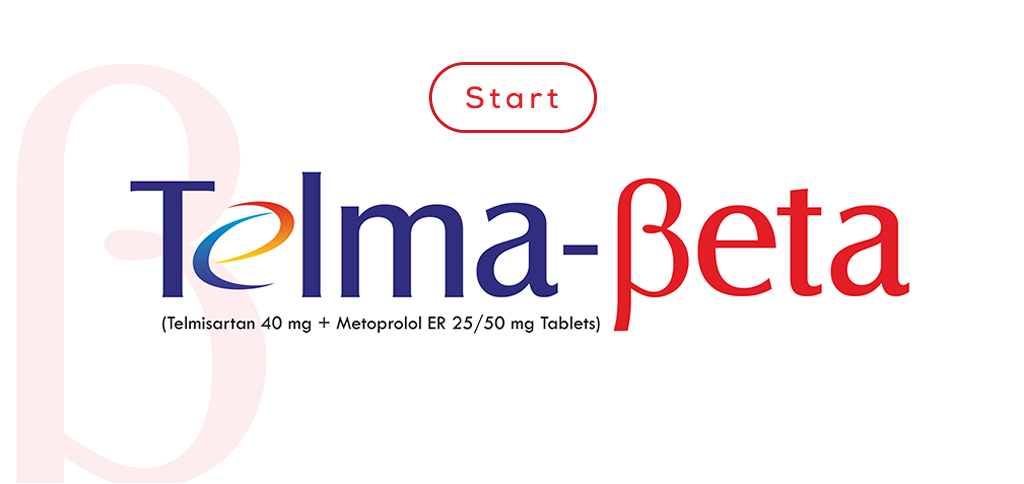
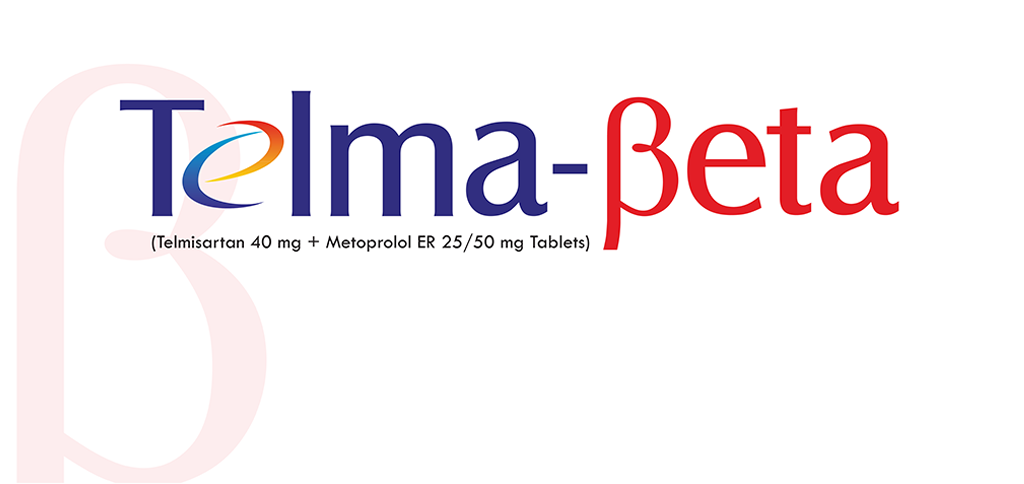
Speed 1

Changed region(s): [[0.125, 0.124, 0.9062, 0.6818]]

diff --git a/index.html b/index.html
@@ -64,7 +64,7 @@ if (typeof(localStorage.getItem("currentcustomslideflag"))!='undefined' && local
 	
 	switch(custcomslideid){
 		case 1:
-		content='<link rel="stylesheet" type="text/css" href="slide1/slide1.css" media="screen"/><div class="s1_1"><img src="slide1/s1_1.png" width="1024" height="768" alt=""/></div><div class="s1_2"><img src="slide1/s1_2.png"/></div><div class="s1_3_wrap pulseIn-1"><div class="s1_3"><img src="slide1/s1_3.png"/></div></div><div class="s1_4_wrap pulseIn-2"><div class="s1_4"><img src="slide1/s1_4.png"/></div></div><div class="s1_5_wrap pulseIn-3"><div class="s1_5"><img src="slide1/s1_5.png"/></div></div><div class="s1_6 slideInUp"><img src="slide1/s1_6.png"/></div><div class="s1_7 slideInDown"><img src="slide1/s1_7.png"/></div><div class="s1_8"><img src="slide1/s1_8.png"/></div><div class="s1_9"><img src="slide1/s1_9.png"/></div><div class="s1_10"><img src="slide1/s1_10.png"/></div><div class="s1_11"><img src="slide1/s1_11.png"/></div><div class="hitStart" onclick="hitStart()"></div><div class="popBubble1" onclick="popBubble1()"></div><div class="popBubble2" onclick="popBubble2()"></div><div class="popBubble3" onclick="popBubble3()"></div>';
+		content='<link rel="stylesheet" type="text/css" href="slide1/slide1.css" media="screen"/><div class="s1_1"><img src="slide1/s1_1.png" width="1024" height="768" alt=""/></div><div class="s1_2"><img src="slide1/s1_2.png"/></div><div class="s1_3_wrap pulseIn-1"><div class="s1_3"><img src="slide1/s1_3.png"/></div></div><div class="s1_4_wrap pulseIn-2"><div class="s1_4"><img src="slide1/s1_4.png"/></div></div><div class="s1_5_wrap pulseIn-3"><div class="s1_5"><img src="slide1/s1_5.png"/></div></div><div class="s1_6 slideInUp"><img src="slide1/s1_6.png"/></div><div class="s1_7 slideInDown"><img src="slide1/s1_7.png"/></div><div class="s1_8"><img src="slide1/s1_8.png"/></div><div class="s1_9"><img src="slide1/s1_9.png"/></div><div class="s1_10"><img src="slide1/s1_10.png"/></div><div class="s1_11"><img src="slide1/s1_11.png"/></div><div class="start"><img src="slide1/start.png"/></div><div class="hitStart" onclick="hitStart()"></div><div class="popBubble1" onclick="popBubble1()"></div><div class="popBubble2" onclick="popBubble2()"></div><div class="popBubble3" onclick="popBubble3()"></div>';
 		break;
 	}
 
@@ -75,7 +75,7 @@ if (typeof(localStorage.getItem("currentcustomslideflag"))!='undefined' && local
 	 
 }else{
 
-$("#main_content").html('<link rel="stylesheet" type="text/css" href="slide1/slide1.css" media="screen"/><div class="s1_1"><img src="slide1/s1_1.png" width="1024" height="768" alt=""/></div><div class="s1_2"><img src="slide1/s1_2.png"/></div><div class="s1_3_wrap pulseIn-1"><div class="s1_3"><img src="slide1/s1_3.png"/></div></div><div class="s1_4_wrap pulseIn-2"><div class="s1_4"><img src="slide1/s1_4.png"/></div></div><div class="s1_5_wrap pulseIn-3"><div class="s1_5"><img src="slide1/s1_5.png"/></div></div><div class="s1_6 slideInUp"><img src="slide1/s1_6.png"/></div><div class="s1_7 slideInDown"><img src="slide1/s1_7.png"/></div><div class="s1_8"><img src="slide1/s1_8.png"/></div><div class="s1_9"><img src="slide1/s1_9.png"/></div><div class="s1_10"><img src="slide1/s1_10.png"/></div><div class="s1_11"><img src="slide1/s1_11.png"/></div><div class="hitStart" onclick="hitStart()"></div><div class="popBubble1" onclick="popBubble1()"></div><div class="popBubble2" onclick="popBubble2()"></div><div class="popBubble3" onclick="popBubble3()"></div>');
+$("#main_content").html('<link rel="stylesheet" type="text/css" href="slide1/slide1.css" media="screen"/><div class="s1_1"><img src="slide1/s1_1.png" width="1024" height="768" alt=""/></div><div class="s1_2"><img src="slide1/s1_2.png"/></div><div class="s1_3_wrap pulseIn-1"><div class="s1_3"><img src="slide1/s1_3.png"/></div></div><div class="s1_4_wrap pulseIn-2"><div class="s1_4"><img src="slide1/s1_4.png"/></div></div><div class="s1_5_wrap pulseIn-3"><div class="s1_5"><img src="slide1/s1_5.png"/></div></div><div class="s1_6 slideInUp"><img src="slide1/s1_6.png"/></div><div class="s1_7 slideInDown"><img src="slide1/s1_7.png"/></div><div class="s1_8"><img src="slide1/s1_8.png"/></div><div class="s1_9"><img src="slide1/s1_9.png"/></div><div class="s1_10"><img src="slide1/s1_10.png"/></div><div class="s1_11"><img src="slide1/s1_11.png"/></div><div class="start"><img src="slide1/start.png"/></div><div class="hitStart" onclick="hitStart()"></div><div class="popBubble1" onclick="popBubble1()"></div><div class="popBubble2" onclick="popBubble2()"></div><div class="popBubble3" onclick="popBubble3()"></div>');
 
 }
 

diff --git a/slide1/slide1.css b/slide1/slide1.css
@@ -16,8 +16,8 @@
   top: 58px;
   width: 379px;
   height: 130px;
-	animation: fadeInDown 0.5s;
-	animation-delay: 0s;
+	animation: fadeInDown 1s;
+	animation-delay: 0.5s;
 	animation-fill-mode: both;
 	z-index: 2;
 }
@@ -44,7 +44,7 @@
   width: 230px;
   height: 230px;
 	animation: bounceIn 0.5s;
-	animation-delay: 1s;
+	animation-delay: 2s;
 	animation-fill-mode: both;
 	z-index: 5;
 }
@@ -71,7 +71,7 @@
   width: 196px;
   height: 196px;
 	animation: bounceIn 0.5s;
-	animation-delay: 1.5s;
+	animation-delay: 2.5s;
 	animation-fill-mode: both;
 	z-index: 5;
 }
@@ -98,7 +98,7 @@
   width: 157px;
   height: 158px;
 	animation: bounceIn 0.5s;
-	animation-delay: 2s;
+	animation-delay: 3s;
 	animation-fill-mode: both;
 	z-index: 5;
 }
@@ -114,7 +114,7 @@
 
 .slideInDown {
 	animation: slideInDown 0.3s;
-	animation-delay: 3s;
+	animation-delay: 5s;
 	animation-fill-mode: both;
 }
 
@@ -135,7 +135,7 @@
 
 .slideInUp {
 	animation: slideInUp 0.3s;
-	animation-delay: 3s;
+	animation-delay: 5s;
 	animation-fill-mode: both;
 }
 
@@ -145,66 +145,26 @@
 	animation-fill-mode: both;
 }
 
-.s1_8 {
-	position: absolute;
-  left: 0px;
-  top: 0px;
-  width: 1024px;
-  height: 768px;
-	animation: fadeIn 1s;
-	animation-delay: 1s;
+.start {
+  position: absolute;
+  left: 417px;
+  top: 631px;
+  width: 191px;
+  height: 79px;
+  	animation: bounceIn 1.5s infinite;
+	animation-delay: 5.2s;
 	animation-fill-mode: both;
-	display: none;
-	z-index: 30;
-}
-
-.s1_9 {
-	position: absolute;
-  left: 534px;
-  top: 112px;
-  width: 460px;
-  height: 114px;
-	animation: fadeInUp 0.5s;
-	animation-delay: 2s;
-	animation-fill-mode: both;
-	display: none;
-	z-index: 35;
-}
-
-.s1_10 {
-	position: absolute;
-  left: 22px;
-  top: 480px;
-  width: 413px;
-  height: 288px;
-	animation: zoomInUp 1s;
-	animation-delay: 2.5s;
-	animation-fill-mode: both;
-	display: none;
-	z-index: 35;
-}
-
-.s1_11 {
-	position: absolute;
-  left: 0px;
-  top: 584px;
-  width: 1024px;
-  height: 184px;
-	animation: fadeIn 1s;
-	animation-delay: 1s;
-	animation-fill-mode: both;
-	display: none;
-	z-index: 40;
+  z-index: 18;
 }
 
 .hitStart {
   position: absolute;
-  left: 370px;
-  top: 299px;
-  width: 284px;
-  height: 168px;
+  left: 358px;
+  top: 575px;
+  width: 308px;
+  height: 193px;
   	animation: zoomInZero 0.3s;
-	animation-delay: 3.2s;
+	animation-delay: 5.2s;
 	animation-fill-mode: both;
   z-index: 20;
 }
@@ -239,12 +199,64 @@
 	z-index: 25;
 }
 
-
 .bounceOut {
 	animation: bounceOut 0.3s;
 	animation-delay: 0s;
 	animation-fill-mode: both;
 }
+
+.s1_8 {
+	position: absolute;
+  left: 0px;
+  top: 0px;
+  width: 1024px;
+  height: 768px;
+	animation: fadeIn 1s;
+	animation-delay: 1s;
+	animation-fill-mode: both;
+	display: none;
+	z-index: 30;
+}
+
+.s1_9 {
+	position: absolute;
+  left: 534px;
+  top: 112px;
+  width: 460px;
+  height: 114px;
+	animation: fadeInUp 1s;
+	animation-delay: 2.5s;
+	animation-fill-mode: both;
+	display: none;
+	z-index: 35;
+}
+
+.s1_10 {
+	position: absolute;
+  left: 22px;
+  top: 480px;
+  width: 413px;
+  height: 288px;
+	animation: zoomInUp 1s;
+	animation-delay: 3.5s;
+	animation-fill-mode: both;
+	display: none;
+	z-index: 35;
+}
+
+.s1_11 {
+	position: absolute;
+  left: 0px;
+  top: 584px;
+  width: 1024px;
+  height: 184px;
+	animation: fadeIn 1s;
+	animation-delay: 1s;
+	animation-fill-mode: both;
+	display: none;
+	z-index: 40;
+}
+
 
 
 @keyframes flashLong {

diff --git a/global.js b/global.js
@@ -347,7 +347,7 @@ currentSlide();
 var selectedContentPath='';
 switch(pg_id){
 	case 1:
-	content='<link rel="stylesheet" type="text/css" href="slide1/slide1.css" media="screen"/><div class="s1_1"><img src="slide1/s1_1.png" width="1024" height="768" alt=""/></div><div class="s1_2"><img src="slide1/s1_2.png"/></div><div class="s1_3_wrap pulseIn-1"><div class="s1_3"><img src="slide1/s1_3.png"/></div></div><div class="s1_4_wrap pulseIn-2"><div class="s1_4"><img src="slide1/s1_4.png"/></div></div><div class="s1_5_wrap pulseIn-3"><div class="s1_5"><img src="slide1/s1_5.png"/></div></div><div class="s1_6 slideInUp"><img src="slide1/s1_6.png"/></div><div class="s1_7 slideInDown"><img src="slide1/s1_7.png"/></div><div class="s1_8"><img src="slide1/s1_8.png"/></div><div class="s1_9"><img src="slide1/s1_9.png"/></div><div class="s1_10"><img src="slide1/s1_10.png"/></div><div class="s1_11"><img src="slide1/s1_11.png"/></div><div class="hitStart" onclick="hitStart()"></div><div class="popBubble1" onclick="popBubble1()"></div><div class="popBubble2" onclick="popBubble2()"></div><div class="popBubble3" onclick="popBubble3()"></div>';
+	content='<link rel="stylesheet" type="text/css" href="slide1/slide1.css" media="screen"/><div class="s1_1"><img src="slide1/s1_1.png" width="1024" height="768" alt=""/></div><div class="s1_2"><img src="slide1/s1_2.png"/></div><div class="s1_3_wrap pulseIn-1"><div class="s1_3"><img src="slide1/s1_3.png"/></div></div><div class="s1_4_wrap pulseIn-2"><div class="s1_4"><img src="slide1/s1_4.png"/></div></div><div class="s1_5_wrap pulseIn-3"><div class="s1_5"><img src="slide1/s1_5.png"/></div></div><div class="s1_6 slideInUp"><img src="slide1/s1_6.png"/></div><div class="s1_7 slideInDown"><img src="slide1/s1_7.png"/></div><div class="s1_8"><img src="slide1/s1_8.png"/></div><div class="s1_9"><img src="slide1/s1_9.png"/></div><div class="s1_10"><img src="slide1/s1_10.png"/></div><div class="s1_11"><img src="slide1/s1_11.png"/></div><div class="start"><img src="slide1/start.png"/></div><div class="hitStart" onclick="hitStart()"></div><div class="popBubble1" onclick="popBubble1()"></div><div class="popBubble2" onclick="popBubble2()"></div><div class="popBubble3" onclick="popBubble3()"></div>';
 	break;
 
 }
@@ -498,6 +498,7 @@ function hitStart() {
 	$(".s1_6").addClass("slideOutDown");
 	$(".s1_7").removeClass("slideInDown");
 	$(".s1_7").addClass("slideOutUp");
+	$('.start').css("display","none");
 	$('.hitStart').css("display","none");
 	$('.popBubble1').css("display","block");
 	$('.popBubble2').css("display","block");
